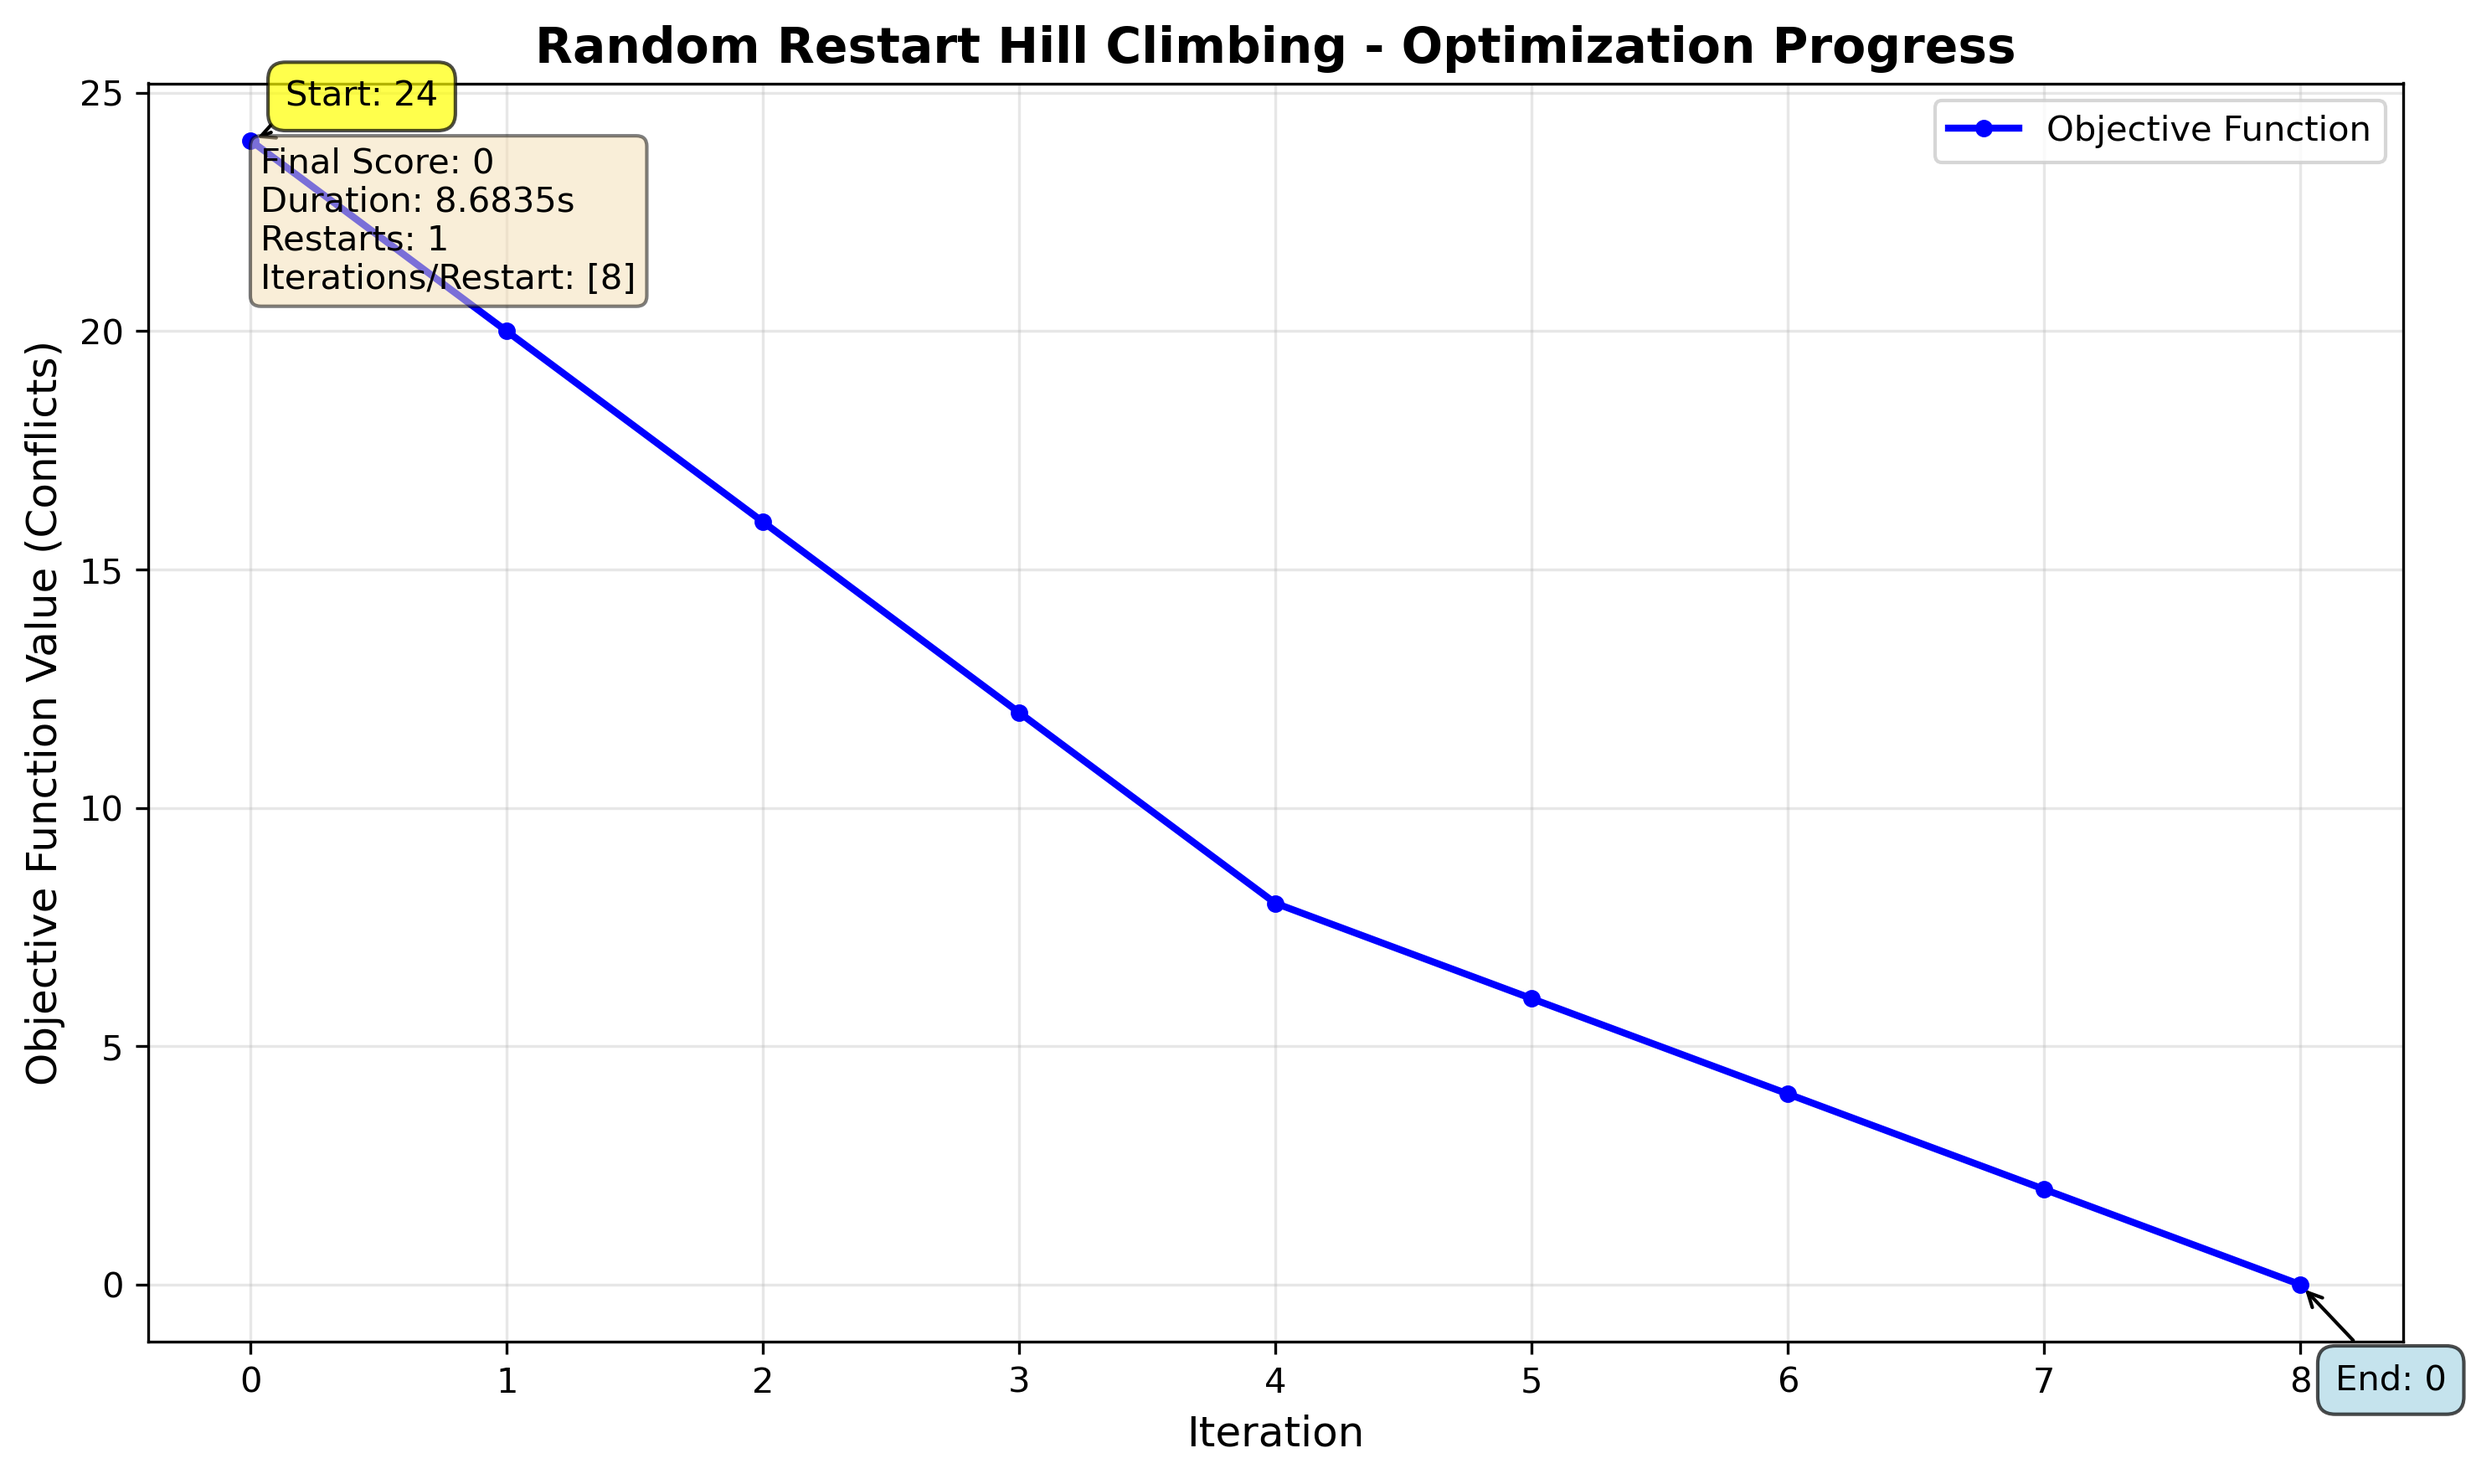
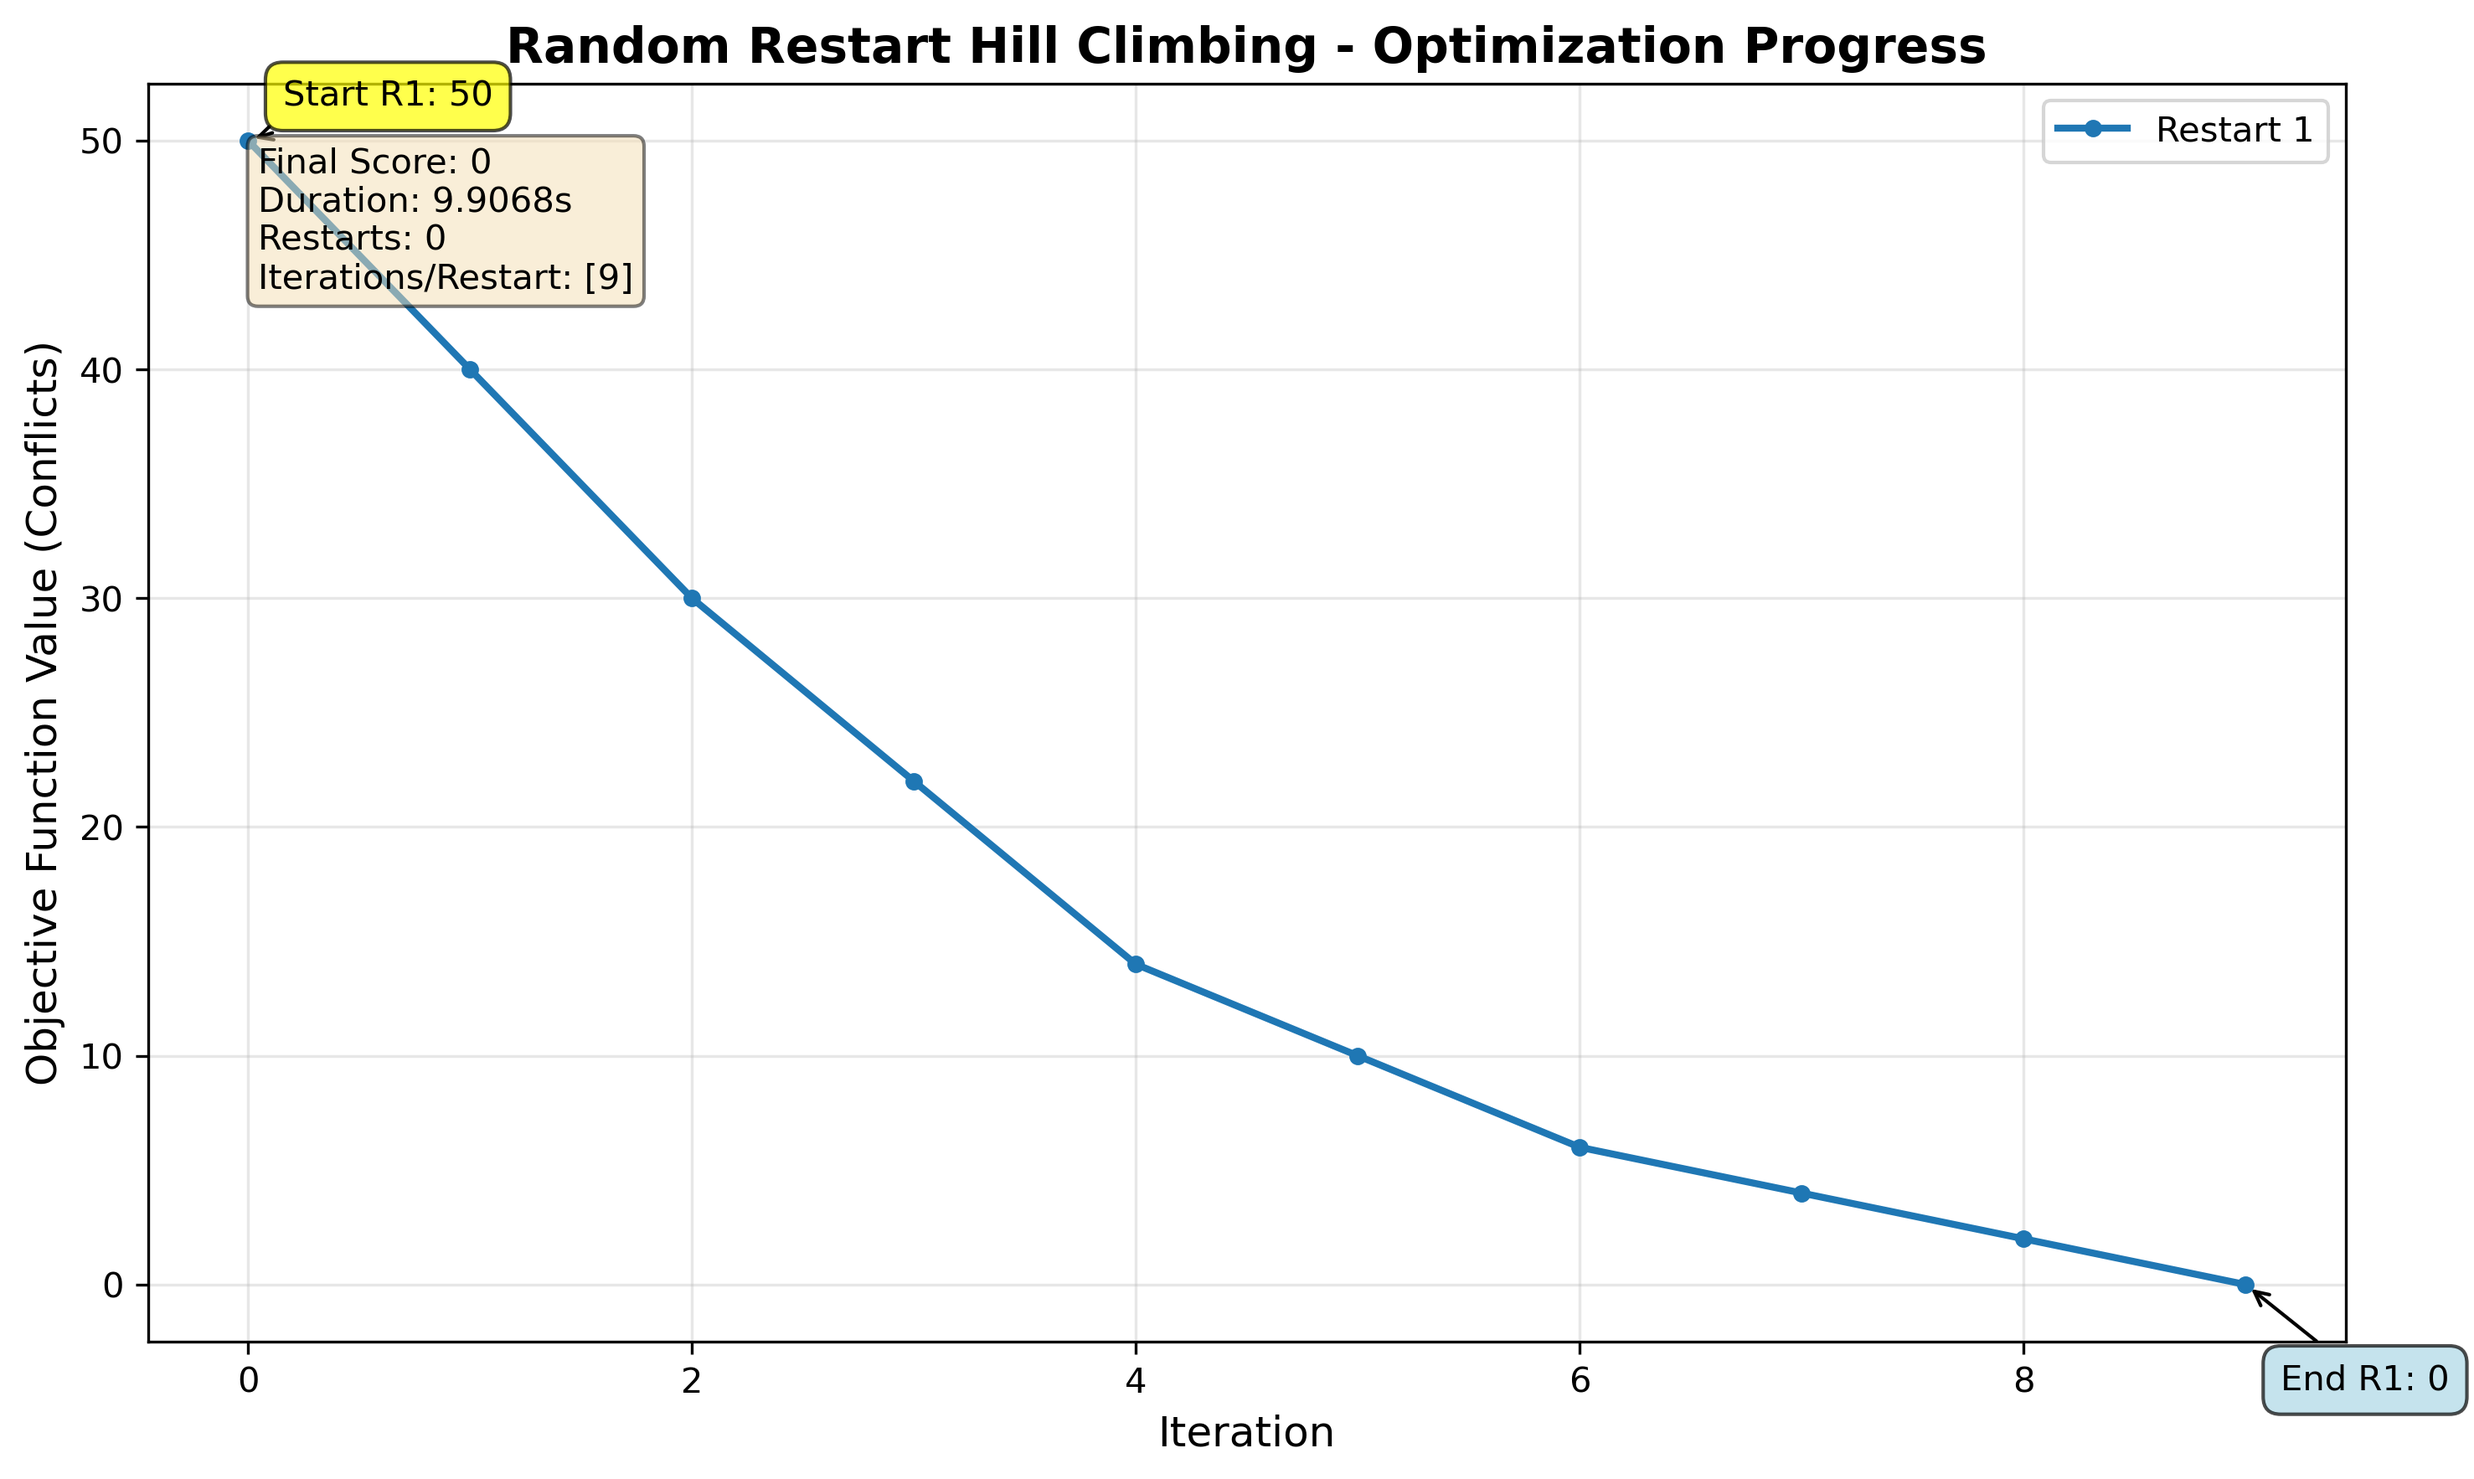
feat: random restart update

diff --git a/src/main.py b/src/main.py
@@ -153,8 +153,16 @@ def main():
     print("GENERATING PLOT")
     print("="*60)
 
+    # Handle history for Random Restart (list of lists)
     plt.figure(figsize=(10, 6))
-    plt.plot(range(len(history)), history, 'b-o', linewidth=2, markersize=4, label='Objective Function')
+    if choice == 5 and isinstance(history, list) and history:
+        # Plot each restart as a separate line
+        for i, hist in enumerate(history):
+            if hist:  # Ensure hist is not empty
+                plt.plot(range(len(hist)), hist, 'o-', linewidth=2, markersize=4, label=f'Restart {i+1}')
+    else:
+        plot_history = history
+        plt.plot(range(len(plot_history)), plot_history, 'b-o', linewidth=2, markersize=4, label='Objective Function')
 
     plt.xlabel('Iteration', fontsize=12)
     plt.ylabel('Objective Function Value (Conflicts)', fontsize=12)
@@ -162,13 +170,25 @@ def main():
     plt.grid(True, alpha=0.3)
     plt.legend(fontsize=10)
 
-    # Add annotations
-    plt.annotate(f'Start: {history[0]}', xy=(0, history[0]), xytext=(10, 10),
-                textcoords='offset points', bbox=dict(boxstyle='round,pad=0.5', fc='yellow', alpha=0.7),
-                arrowprops=dict(arrowstyle='->', connectionstyle='arc3,rad=0'))
-    plt.annotate(f'End: {history[-1]}', xy=(len(history)-1, history[-1]), xytext=(10, -30),
-                textcoords='offset points', bbox=dict(boxstyle='round,pad=0.5', fc='lightblue', alpha=0.7),
-                arrowprops=dict(arrowstyle='->', connectionstyle='arc3,rad=0'))
+    # Add annotations (simplified for multiple lines)
+    if choice == 5 and isinstance(history, list) and history:
+        # Annotate start and end for each restart
+        for i, hist in enumerate(history):
+            if hist:
+                plt.annotate(f'Start R{i+1}: {hist[0]}', xy=(0, hist[0]), xytext=(10 + i*50, 10 + i*10),
+                            textcoords='offset points', bbox=dict(boxstyle='round,pad=0.5', fc='yellow', alpha=0.7),
+                            arrowprops=dict(arrowstyle='->', connectionstyle='arc3,rad=0'))
+                plt.annotate(f'End R{i+1}: {hist[-1]}', xy=(len(hist)-1, hist[-1]), xytext=(10 + i*50, -30 - i*10),
+                            textcoords='offset points', bbox=dict(boxstyle='round,pad=0.5', fc='lightblue', alpha=0.7),
+                            arrowprops=dict(arrowstyle='->', connectionstyle='arc3,rad=0'))
+    else:
+        if plot_history:
+            plt.annotate(f'Start: {plot_history[0]}', xy=(0, plot_history[0]), xytext=(10, 10),
+                        textcoords='offset points', bbox=dict(boxstyle='round,pad=0.5', fc='yellow', alpha=0.7),
+                        arrowprops=dict(arrowstyle='->', connectionstyle='arc3,rad=0'))
+            plt.annotate(f'End: {plot_history[-1]}', xy=(len(plot_history)-1, plot_history[-1]), xytext=(10, -30),
+                        textcoords='offset points', bbox=dict(boxstyle='round,pad=0.5', fc='lightblue', alpha=0.7),
+                        arrowprops=dict(arrowstyle='->', connectionstyle='arc3,rad=0'))
 
     # Add info box
     info_text = f'Final Score: {best_score}\nDuration: {duration:.4f}s'
@@ -222,21 +242,20 @@ def plot_schedule_visualization(schedule, title, registry, save_path=None):
         row_data = []
         for day in days:
             if (day, hour) in schedule.occupancy:
-                course_codes = set()
-                for mid in schedule.occupancy[(day, hour)].values():
+                room_contents = []
+                for room in schedule.classroom_codes:
+                    mid = schedule.occupancy[(day, hour)].get(room)
                     if mid is not None:
-                        meeting = registry.get_meeting(mid)
-                        course_codes.add(meeting.course_code)
-                
-                if course_codes:
-                    codes_list = sorted(list(course_codes))
-                    cell_content = "\n".join(codes_list)  # Multi-line for table
+                        course_code = registry.get_meeting(mid).course_code
+                        room_contents.append(f"{room}:{course_code}")
+                if room_contents:
+                    slot_content = "\n".join(room_contents)  # Multi-line for table
                 else:
-                    cell_content = "-"
+                    slot_content = "-"
             else:
-                cell_content = "-"
+                slot_content = "-"
             
-            row_data.append(cell_content)
+            row_data.append(slot_content)
         data.append(row_data)
     
     # Create figure and table

diff --git a/src/algorithm/hill_climbing_random_restart.py b/src/algorithm/hill_climbing_random_restart.py
@@ -17,7 +17,7 @@ class RandomRestartHillClimbing:
         start_time = time.time()
         global_best_schedule = None
         global_best_score = float('inf')
-        global_history = []
+        global_history = []  
         iterations_list = []
         
         initial_schedule = None
@@ -26,9 +26,10 @@ class RandomRestartHillClimbing:
             current = Schedule.random_initial_assignment(self.registry)
             current_score = self.objective.evaluate(current)
             
+            local_history = [current_score]  # History for this restart
+            
             if restart == 0:
                 initial_schedule = current
-                global_history.append(current_score)
             
             iteration = 0
             
@@ -54,14 +55,13 @@ class RandomRestartHillClimbing:
                 
                 current = best_neighbor
                 current_score = best_score
-                
-                if restart == 0:
-                    global_history.append(current_score)
+                local_history.append(current_score)
                 
                 if current_score == 0:
                     break
             
             iterations_list.append(iteration)
+            global_history.append(local_history)  # Append history of this restart
             
             if current_score < global_best_score:
                 global_best_score = current_score
@@ -73,4 +73,4 @@ class RandomRestartHillClimbing:
         end_time = time.time()
         duration = end_time - start_time
         
-        return initial_schedule, global_best_schedule, global_best_score, global_history, restart + 1, duration, iterations_list
+        return initial_schedule, global_best_schedule, global_best_score, global_history, restart, duration, iterations_list

diff --git a/src/core/objective.py b/src/core/objective.py
@@ -17,10 +17,6 @@ class ScheduleObjective:
         return self.calculate_student_time_conflicts(schedule)
     
     def calculate_student_time_conflicts(self, schedule: Schedule) -> float:
-        """
-        Count time conflicts for students.
-        Example: If student has 2 meetings at same hour → +2 conflicts
-        """
         total_conflicts = 0
         student_timeslot_usage: Dict[Tuple, Dict[str, int]] = {}
         
